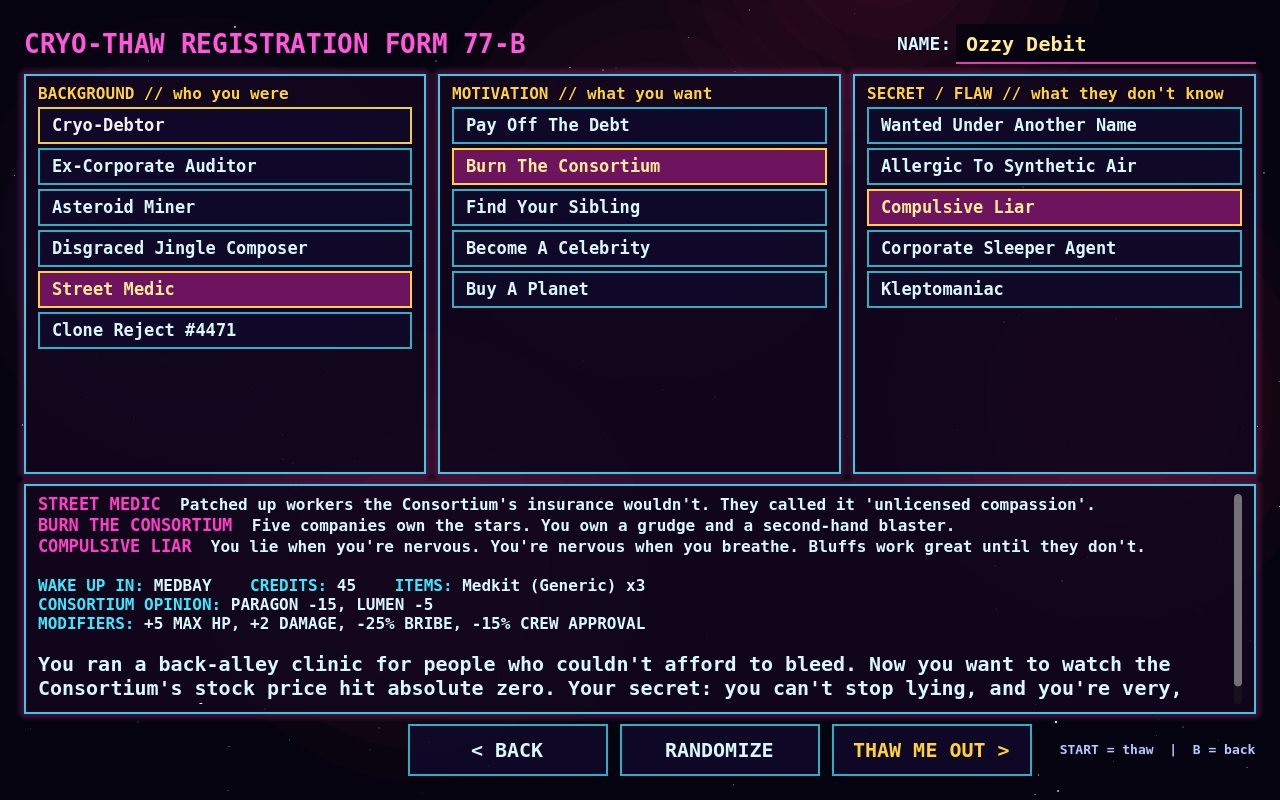
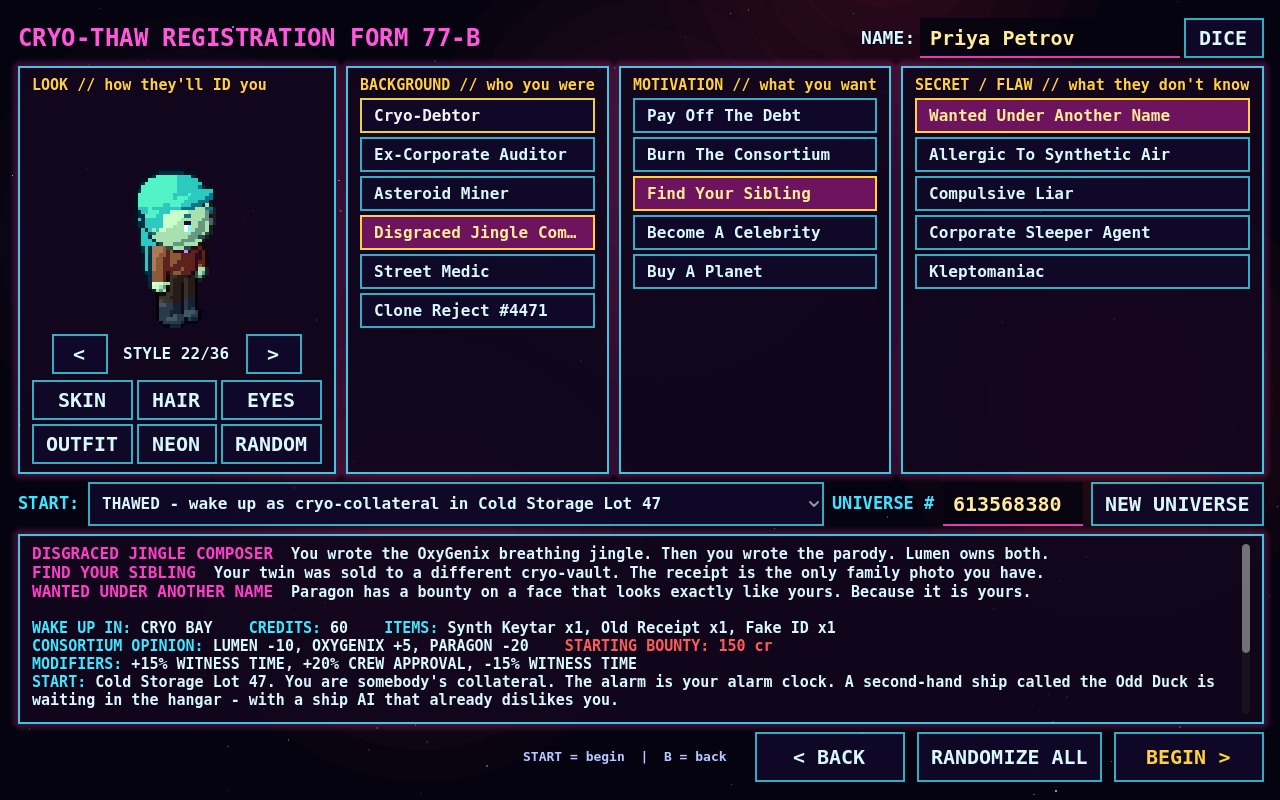
docs: v0.3 screenshots (character creator, dense swamp and desert)
Claude-Session: https://claude.ai/code/session_01QuPGznsLk6MyurrvpNwbLz

diff --git a/README.md b/README.md
@@ -12,7 +12,8 @@
 | | |
 |---|---|
 | ![Intro](docs/screenshots/intro.jpg) | ![Combat](docs/screenshots/combat.jpg) |
-| ![Swamp](docs/screenshots/planet_swamp.jpg) | ![Landing](docs/screenshots/planet_landing.jpg) |
+| ![Swamp](docs/screenshots/planet_swamp.jpg) | ![Desert](docs/screenshots/planet_desert.jpg) |
+| ![Character creation](docs/screenshots/character_creation.jpg) | ![Landing](docs/screenshots/planet_landing.jpg) |
 
 ---
 
